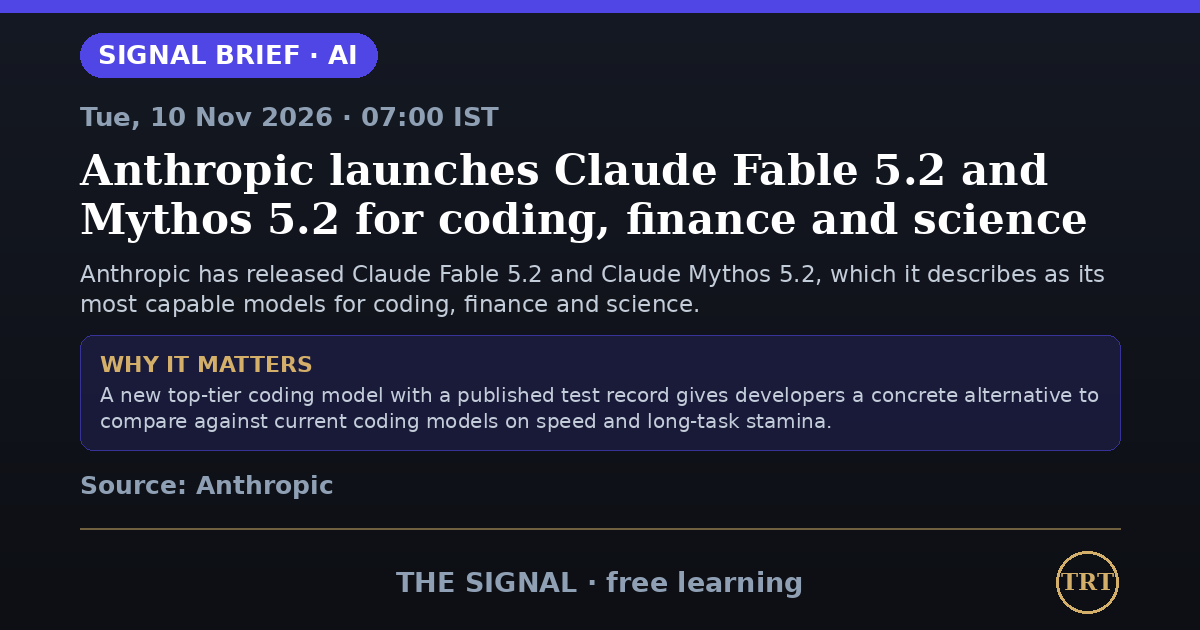
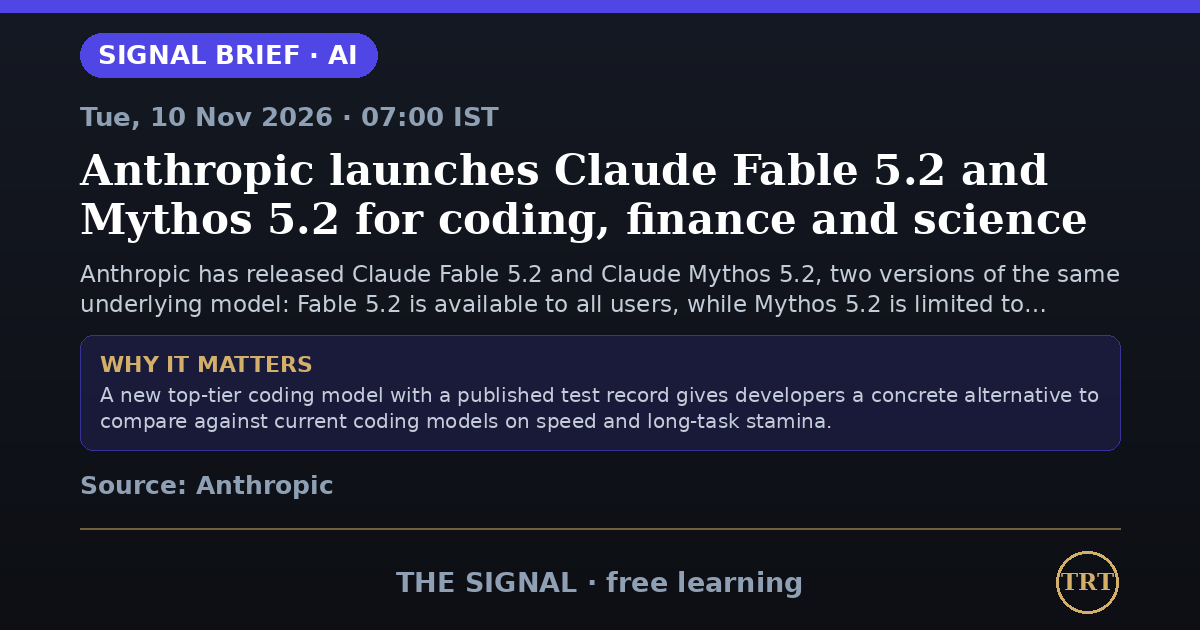
Correct the Anthropic Fable 5.2 Brief item (brief-2026-11-10-01) with a visible correction note
The Nov 10 item misstated Anthropic's test results: Fable 5.2 designed
three working electronic devices from scratch (it did not migrate
devices), there was no Sonnet 4.5 comparison, and the Fermat
formalization was done by 1,000 Fable 5.2 agents in 30 hours against
11 days for the first formalization. Summary corrected in brief.json,
a dated correction note added to the item and rendered on the story
page via a new optional correction field in build_brief.py; story
page, share card, og image and feeds regenerated.

Changed region(s): [[0.0617, 0.4222, 0.9558, 0.5127]]

diff --git a/brief/2026-11-10/01/index.html b/brief/2026-11-10/01/index.html
@@ -5,9 +5,9 @@
 <meta charset="utf-8">
 <meta name="viewport" content="width=device-width, initial-scale=1">
 <title>Anthropic launches Claude Fable 5.2 and Mythos 5.2 for coding, finance and science · Signal Brief</title>
-<meta name="description" content="Anthropic has released Claude Fable 5.2 and Claude Mythos 5.2, which it describes as its most capable models for coding, finance and science. Fable 5.2 is avail">
+<meta name="description" content="Anthropic has released Claude Fable 5.2 and Claude Mythos 5.2, two versions of the same underlying model: Fable 5.2 is available to all users, while Mythos 5.2 ">
 <meta property="og:title" content="Anthropic launches Claude Fable 5.2 and Mythos 5.2 for coding, finance and science">
-<meta property="og:description" content="Anthropic has released Claude Fable 5.2 and Claude Mythos 5.2, which it describes as its most capable models for coding, finance and science. Fable 5.2 is available now, while Mythos 5.2 is limited to">
+<meta property="og:description" content="Anthropic has released Claude Fable 5.2 and Claude Mythos 5.2, two versions of the same underlying model: Fable 5.2 is available to all users, while Mythos 5.2 is limited to vetted organizations. In p">
 <meta property="og:type" content="article">
 <meta property="og:url" content="https://thillairaj.github.io/The-Signal-AI-Quantum/brief/2026-11-10/01/">
 <meta property="og:image" content="https://thillairaj.github.io/The-Signal-AI-Quantum/brief/2026-11-10/01/og.png">
@@ -15,7 +15,7 @@
 <meta property="og:image:height" content="630">
 <meta name="twitter:card" content="summary_large_image">
 <meta name="twitter:title" content="Anthropic launches Claude Fable 5.2 and Mythos 5.2 for coding, finance and science">
-<meta name="twitter:description" content="Anthropic has released Claude Fable 5.2 and Claude Mythos 5.2, which it describes as its most capable models for coding, finance and science. Fable 5.2 is available now, while Mythos 5.2 is limited to">
+<meta name="twitter:description" content="Anthropic has released Claude Fable 5.2 and Claude Mythos 5.2, two versions of the same underlying model: Fable 5.2 is available to all users, while Mythos 5.2 is limited to vetted organizations. In p">
 <meta name="twitter:image" content="https://thillairaj.github.io/The-Signal-AI-Quantum/brief/2026-11-10/01/og.png">
 <link rel="canonical" href="https://thillairaj.github.io/The-Signal-AI-Quantum/brief/2026-11-10/01/">
 <link href="https://fonts.googleapis.com/css2?family=Fraunces:ital,opsz,wght@0,9..144,400;0,9..144,600;0,9..144,800;1,9..144,500;1,9..144,600&family=Inter:wght@400;500;600;700;800&display=swap" rel="stylesheet">
@@ -49,6 +49,7 @@
   .story-why-label { color:#4f46e5; }
   :root[data-theme="dark"] .story-why-label { color:#8781ed; }
   @media (prefers-color-scheme: dark) { :root:not([data-theme="light"]) .story-why-label { color:#8781ed; } }
+  .story-correction { border:1px solid var(--gold); border-radius:10px; padding:12px 14px; line-height:1.6; margin:16px 0; font-size:.95rem; }
 </style>
 <script>
 (function () {
@@ -124,8 +125,9 @@
     <span class="story-pill" style="background:#4F46E5">AI</span>
     <p class="story-dates">Tue, 10 Nov 2026 · 07:00 IST · Source dated 9 Nov 2026</p>
     <h1>Anthropic launches Claude Fable 5.2 and Mythos 5.2 for coding, finance and science</h1>
-    <p class="story-sum">Anthropic has released Claude Fable 5.2 and Claude Mythos 5.2, which it describes as its most capable models for coding, finance and science. Fable 5.2 is available now, while Mythos 5.2 is limited to vetted organizations. In pre-release testing cited by Anthropic, Fable 5.2 migrated three complex devices in a day where Claude Sonnet 4.5 managed one, and completed a 30-hour proof of Fermat's Last Theorem.</p>
+    <p class="story-sum">Anthropic has released Claude Fable 5.2 and Claude Mythos 5.2, two versions of the same underlying model: Fable 5.2 is available to all users, while Mythos 5.2 is limited to vetted organizations. In pre-release testing reported by Anthropic, Fable 5.2 designed three working electronic devices from scratch, a home voice-assistant hub, a USB speakerphone and a handheld virtual pet, and each circuit board was ready for manufacturing in under a day, with all three devices working without electrical modifications. A team of 1,000 Fable 5.2 agents also formalized the proof of Fermat's Last Theorem in 30 hours; Anthropic's first formalization of the proof, performed by an unreleased research version of Claude, took 11 days.</p>
     <div class="story-why" style="background:rgba(79,70,229,0.12)"><span class="story-why-label">WHY IT MATTERS FOR TECH</span><p>A new top-tier coding model with a published test record gives developers a concrete alternative to compare against current coding models on speed and long-task stamina.</p></div>
+    <p class="story-correction">Corrected on 17 November 2026: an earlier version misstated the results of Anthropic's tests. The figures now match Anthropic's announcement.</p>
     <p class="bu-srcs-label" style="font-size:.7rem;font-weight:800;letter-spacing:.16em;color:var(--muted);text-transform:uppercase">Sources</p>
     <ul class="story-srcs"><li><a href="https://www.anthropic.com/claude-fable-and-mythos-5-2" target="_blank" rel="noopener">Anthropic</a></li><li><a href="https://www.theverge.com/ai-artificial-intelligence/1030005/anthropic-claude-fable-mythos-5-2" target="_blank" rel="noopener">The Verge</a></li></ul>
     <div class="story-actions"><span id="storyShare"></span></div>
@@ -137,7 +139,7 @@
     (function () {
       var slot = document.getElementById("storyShare");
       if (slot && window.SignalShare) {
-        slot.appendChild(SignalShare.shareButton({"title": "Anthropic launches Claude Fable 5.2 and Mythos 5.2 for coding, finance and science", "line": "Anthropic has released Claude Fable 5.2 and Claude Mythos 5.2, which it describes as its most capable models for coding, finance and science.", "link": "https://thillairaj.github.io/The-Signal-AI-Quantum/brief/2026-11-10/01/", "caption": "Anthropic launches Claude Fable 5.2 and Mythos 5.2 for coding, finance and science\n\nAnthropic has released Claude Fable 5.2 and Claude Mythos 5.2, which it describes as its most capable models for coding, finance and science. Fable 5.2 is available now, while Mythos 5.2 is limited to vetted organizations. In pre-release testing cited by Anthropic, Fable 5.2 migrated three complex devices in a day where Claude Sonnet 4.5 managed one, and completed a 30-hour proof of Fermat's Last Theorem.\n\nWhy it matters: A new top-tier coding model with a published test record gives developers a concrete alternative to compare against current coding models on speed and long-task stamina.\n\nSource: Anthropic\n\nRead on Signal Brief, free:\nhttps://thillairaj.github.io/The-Signal-AI-Quantum/brief/2026-11-10/01/\n\n#TheSignal #AI", "image": {"kind": "static", "url": "https://thillairaj.github.io/The-Signal-AI-Quantum/brief/2026-11-10/01/og.png", "filename": "signal-brief-2026-11-10-01.png"}}));
+        slot.appendChild(SignalShare.shareButton({"title": "Anthropic launches Claude Fable 5.2 and Mythos 5.2 for coding, finance and science", "line": "Anthropic has released Claude Fable 5.2 and Claude Mythos 5.2, two versions of the same underlying model: Fable 5.2 is available to all users, while Mythos 5.2 is limited to vetted organizations.", "link": "https://thillairaj.github.io/The-Signal-AI-Quantum/brief/2026-11-10/01/", "caption": "Anthropic launches Claude Fable 5.2 and Mythos 5.2 for coding, finance and science\n\nAnthropic has released Claude Fable 5.2 and Claude Mythos 5.2, two versions of the same underlying model: Fable 5.2 is available to all users, while Mythos 5.2 is limited to vetted organizations. In pre-release testing reported by Anthropic, Fable 5.2 designed three working electronic devices from scratch, a home voice-assistant hub, a USB speakerphone and a handheld virtual pet, and each circuit board was ready for manufacturing in under a day, with all three devices working without electrical modifications. A team of 1,000 Fable 5.2 agents also formalized the proof of Fermat's Last Theorem in 30 hours; Anthropic's first formalization of the proof, performed by an unreleased research version of Claude, took 11 days.\n\nWhy it matters: A new top-tier coding model with a published test record gives developers a concrete alternative to compare against current coding models on speed and long-task stamina.\n\nSource: Anthropic\n\nRead on Signal Brief, free:\nhttps://thillairaj.github.io/The-Signal-AI-Quantum/brief/2026-11-10/01/\n\n#TheSignal #AI", "image": {"kind": "static", "url": "https://thillairaj.github.io/The-Signal-AI-Quantum/brief/2026-11-10/01/og.png", "filename": "signal-brief-2026-11-10-01.png"}}));
       }
     })();
   </script>

diff --git a/scripts/build_brief.py b/scripts/build_brief.py
@@ -534,6 +534,13 @@ def build_story_page(item, ed, base):
                   "filename": f"signal-brief-{ed['date']}-{story_nn(item)}.png"},
     }
     spec_js = json.dumps(spec).replace("</", "<\\/")
+    correction = (item.get("correction") or "").strip()
+    correction_html = (f'\n    <p class="story-correction">{escape(correction)}</p>'
+                       if correction else "")
+    correction_css = ("\n  .story-correction { border:1px solid var(--gold);"
+                      " border-radius:10px; padding:12px 14px; line-height:1.6;"
+                      " margin:16px 0; font-size:.95rem; }"
+                      if correction else "")
     page = f"""<!DOCTYPE html>
 <html lang="en">
 <head>
@@ -557,7 +564,7 @@ def build_story_page(item, ed, base):
 <style>{PAGE_CSS}{STORY_CSS}
   .story-why-label {{ color:{label_light}; }}
   :root[data-theme="dark"] .story-why-label {{ color:{label_dark}; }}
-  @media (prefers-color-scheme: dark) {{ :root:not([data-theme="light"]) .story-why-label {{ color:{label_dark}; }} }}
+  @media (prefers-color-scheme: dark) {{ :root:not([data-theme="light"]) .story-why-label {{ color:{label_dark}; }} }}{correction_css}
 </style>
 {THEME_SCRIPT}
 </head>
@@ -567,7 +574,7 @@ def build_story_page(item, ed, base):
     <p class="story-dates">{escape(fmt_date(ed['date']))} · {escape(edition_time(ed))} IST · Source dated {escape(fmt_date_short(item['source_date']))}</p>
     <h1>{escape(item['headline'])}</h1>
     <p class="story-sum">{escape(item['summary'])}</p>
-    <div class="story-why" style="background:{tint(colour, 12)}"><span class="story-why-label">WHY IT MATTERS FOR TECH</span><p>{escape(item['why'])}</p></div>
+    <div class="story-why" style="background:{tint(colour, 12)}"><span class="story-why-label">WHY IT MATTERS FOR TECH</span><p>{escape(item['why'])}</p></div>{correction_html}
     <p class="bu-srcs-label" style="font-size:.7rem;font-weight:800;letter-spacing:.16em;color:var(--muted);text-transform:uppercase">Sources</p>
     <ul class="story-srcs">{sources}</ul>
     <div class="story-actions"><span id="storyShare"></span></div>
